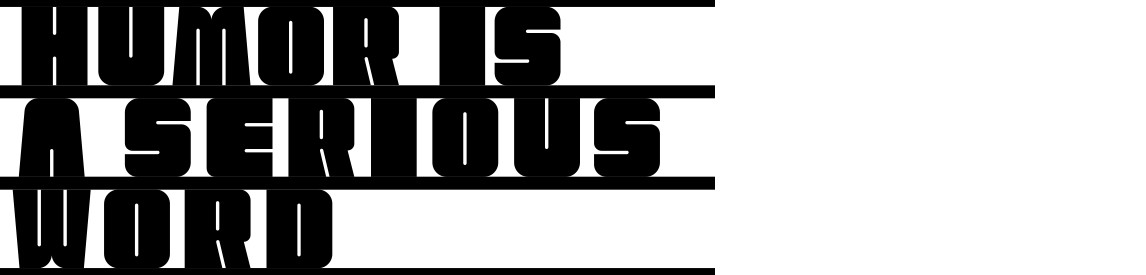
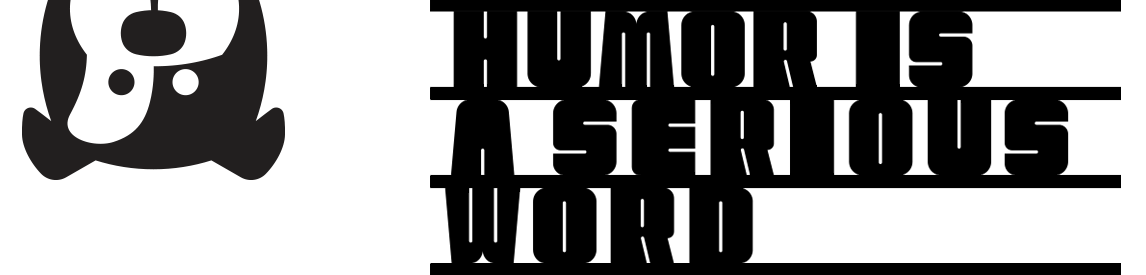
Monday March 5th, slide show ready, added collaborators

diff --git a/index.html b/index.html
@@ -58,41 +58,28 @@
 
   <!-- start of banner -->
   <div class="banner">
-
 <!--slideshow bootstrap, link: https://v4-alpha.getbootstrap.com/components/carousel/-->
 <div id="carouselExampleSlidesOnly" class="carousel slide" data-ride="carousel">
   <div class="carousel-inner">
     <div class="carousel-item active">
       <img src="resources/images/home_images/slide-show/logo.png" alt="logotype">
     </div>
-
     <div class="carousel-item">
-      <img src="resources/images/home_images/slide-show/process.jpg" alt="level">
+      <img src="resources/images/home_images/slide-show/like-letterforms.png" alt="we like letterforms">
     </div>
-
-    <div class="carousel-item">
-      <img src="resources/images/home_images/slide-show/yellow.jpg" alt="postcard">
-    </div>
-
-    <div class="carousel-item">
-      <img src="resources/images/home_images/slide-show/fragments.jpeg" alt="fragments">
-    </div>
-
     <div class="carousel-item">
       <img src="resources/images/home_images/slide-show/humor.png" alt="humor is a serious thing">
     </div>
-
     <div class="carousel-item">
-      <img src="resources/images/home_images/slide-show/modular-cover.jpg" alt="modular type elements cover">
+      <img src="resources/images/home_images/slide-show/pilot.png" alt="pilot talks about lion">
     </div>
-
-
+    <div class="carousel-item">
+      <img src="resources/images/home_images/slide-show/gummie-bear.png" alt="follow the adventures of the gummie bears on our facebook page">
+    </div>
   </div>
-
   </div>
 </div>
 <!--end of slideshow-->
-
 
   </div> <!-- end of banner -->
 
@@ -116,6 +103,15 @@
         <p>Street smart and savvy, the ultimate guide to Mexican hand-made signs.</p>
       </div>
     </div>
+    <!-- modular type elements -->
+    <div class="teaser-box ochre">
+      <div class="teaser-image">
+        <img src="resources/images/home_images/modular.gif">
+      </div>
+      <div class="teaser-text ">
+        <p>Make modulat letterforms with  grids, stencil shapes, and other goodies. Hind binding, mixed media, —very— limited edition.</p>
+      </div>
+    </div>
     <!--  cognates -->
     <div class="teaser-box cyan">
       <div class="teaser-image">
@@ -125,23 +121,55 @@
         <p>Identical words. Different languages: they are called cognates (in English).</p>
       </div>
     </div>
+    <!-- face cards -->
+    <div class="teaser-box red">
+      <div class="teaser-image">
+        <img src="resources/images/home_images/faces.gif">
+      </div>
+      <div class="teaser-text">
+        <p>Faces times five, and five envelopes, printed with letterpress.</p>
+      </div>
+    </div>
     <!-- puzzle game -->
     <div class="teaser-box dark-gray">
       <div class="teaser-image">
         <img src="resources/images/home_images/puzzle.gif">
       </div>
-      <div class="teaser-text ">
+      <div class="teaser-text">
         <p>Game board time! Invent abstract compositions and increase your focus span playing with this magnetic set.</p>
       </div>
     </div>
+
+
   </div> <!-- end of teaser-section -->
 
   <!-- start of about us section -->
   <div class="gradient-background">
     <div id="about-us" class="about">
     <h1>The things that could (once upon a time) happen...</h1>
-     <p>Salted Caramel Books is a small publishing house, with the mission of fostering the pleasure of reading and learning among people of all ages. Our small-scale editions allow for a lot of interaction with like-minded artists and professionals, and we indulge in small editions that become production adventures.
+    <br><br>
+     <p class="two-columns">Salted Caramel Books is a small publishing house, with the mission of fostering the pleasure of reading and learning among people of all ages. Our small-scale editions allow for a lot of interaction with like-minded artists and professionals, and we indulge in small editions that become production adventures.
       We are involved exploring languages (usually two at the same time), alphabetic characters as forms (often referred to as “letterforms”…), funky lettering, experimental printing and—necessarily!—binding, boxes and other vessels. We like games and puzzles. We get involved in workshops and collaborative projects.</p>
+      <br>
+      <br>
+      <br>
+      <h1>Some of our collaborators</h1>
+      <br><br>
+      <div class="collaborators-container">
+        <div class="colaborator"><img src="resources/images/home_images/Lorena.png" alt="Lorena's face"><p>Lorena is a Mexican-American graphic designer and instructor.
+        She loves to make books and ceramics, along with everything that can be found inside of both.</p>
+        </div>
+        <br><br>
+        <div class="colaborator"><img src="resources/images/home_images/Anselmo.png" alt="Anselmo Guiú's face'"><p>Anselmo Guiú is a mysterious character: jealous guardian of the Spanish language, sporadic reporter, and voracious reader of everything that falls into his hands (including the coupon catalog).</p>
+        </div>
+        <br><br>
+        <div class="colaborator"><img src="resources/images/home_images/kate.png" alt="Kate's face'"><p>Kate is our English expert. When not building sand castles on the beach with her daughter, she studies Spanish and teaches English literature. She has a secret wish to spend her days taste-testing ice cream.</p>
+        </div>
+        <br><br>
+        <div class="colaborator"><img src="resources/images/home_images/patrick.png" alt="Patrick's face'"><p>Patrick is in charge of giving the OK to most of our books. He likes dinosaurs and dragons and hopes to be a paleontologist when he grows up. Like the rest of our collaborators, he is a decided lover of ice cream.</p>
+        </div>
+      </div>
+
     </div>
   </div><!--end of about us section -->
 

diff --git a/resources/css/style.css b/resources/css/style.css
@@ -17,8 +17,7 @@ html {
 
 body {
 font-family: 'Fira Sans', sans-serif;
-background-image: url('../../resources/images/background_lines.gif');
-background-repeat: repeat;
+background: linear-gradient(white, #ffff01);
 }
 
 .maincontainer {
@@ -106,23 +105,29 @@ a:visited {
 
 .banner {
   width: 100%;
-  height: 275px;
+  height: auto;
   font-family: "SaltedCaramel";
   font-size: 100px;
   text-align: center;
   background: linear-gradient(white, #ffff01);
   line-height: 276px;
-  vertical-align: middle;
   position: relative;
-  top: 4.56rem;
+  top: 4.8rem;
   margin-bottom: 4.56rem;
   /*this compensates for moving banner 4.56rem down to give air to header*/
+}
+
+.banner img{
+  max-width: 100%;
+  height: auto;
+  display: block;
 }
 
 .teaser-container {
   display: flex;
   flex-wrap: wrap;
-  min-width: 100%;
+  max-width: 1144px;
+  margin: 0 auto;
 }
 
 .teaser-box {
@@ -164,6 +169,18 @@ a:visited {
   background-color: #e9df98;
 }
 
+.red {
+  background-color: #f06c55;
+}
+
+.light-gray {
+  background-color: #e6e6e6;
+}
+
+.ochre {
+  background-color: #daca59;
+}
+
 .teaser-text {
   padding: 4px 6px;
   color: white;
@@ -172,32 +189,57 @@ a:visited {
 }
 
 .gradient-background {
-  max-width: 100%;
-  background: linear-gradient(#ffff01, white );
+  max-width: 1144px;
+  margin: 0 auto;
+  background: linear-gradient(#ffff01, white);
   padding: 50px 0;
 }
 
 .about {
-  max-width: 75%;
   margin: 0 auto;
+  max-width: 53.6rem;
 }
 
 .about h1 {
   font-family: "SaltedCaramel";
   font-size: 1.2rem;
   line-height: 2;
+  margin: 0 auto;
 }
 
 .about p {
   line-height: 1.6;
+  margin: 0 auto;
+}
+
+.two-columns {
   column-count: 2;
+}
+
+.collaborators-container {
+  display: flex;
+  flex-direction: column;
+}
+
+.colaborator {
+  display: flex;
+  flex-direction: row;
+}
+
+.colaborator img {
+  width: 5rem;
+  height: 5rem;
+  margin-right: 2rem;
 }
 
 .pictographs {
   display: flex;
+  max-width: 1144px;
+  margin: 0 auto;
   justify-content: space-between;
-  width: 100%;
   height: 12rem;
+  background-image: url('../../resources/images/background_lines.gif');
+  background-repeat: repeat;
 }
 
 .pictographs img {
@@ -218,7 +260,7 @@ footer {
     left: 0;
     bottom: 0;
     width: 100%;
-  height: 2rem;
+  height: 2.5rem;
 }
 
 footer nav {
